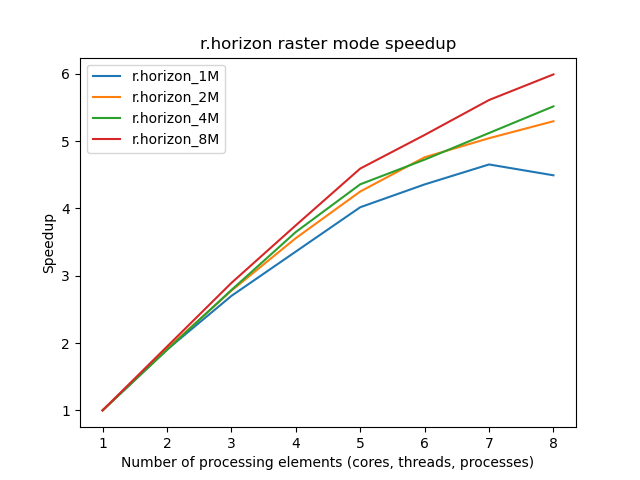
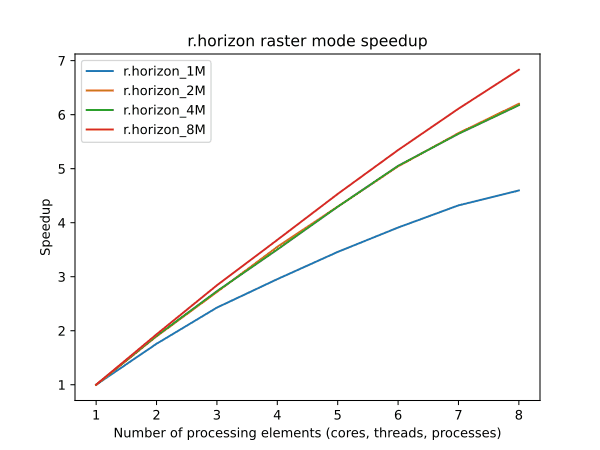
better images and small manual improvements

diff --git a/raster/r.horizon/r.horizon.html b/raster/r.horizon/r.horizon.html
@@ -121,7 +121,9 @@ be in meters. The buffer parameters must be in the same units as the
 raster coordinates (e.g., for latitude-longitude buffers are
 measured in degrees).
 
-<h2>METHOD</h2>
+<h2>NOTES</h2>
+
+<h3>Method</h3>
 
 The calculation method is based on the method used in <b>r.sun</b>
 to calculate shadows. It starts at a very shallow angle and walks
@@ -145,14 +147,11 @@ The output with the <b>-d</b> flag is azimuth degree (-90 to 90, where
 <p> All horizon values are positive (or zero). While negative values are
 in theory possible, <b>r.horizon</b> currently does not support them.
 
-<h2>NOTES</h2>
-The parallelization is only implemented for the raster mode.
-Although the point mode has been parallelized,
-the run time is much shorter than the raster mode.
 
 <h3>Performance</h3>
+Parallel processing is implemented for the raster mode.
 To enable parallel processing, the user can specify the number of threads
-to be used with the <b>nprocs</b> parameter (default 1).
+to be used with the <b>nprocs</b> parameter.
 Figures below show benchmark results running on
 Intel® Core™ i5-13600K CPU @ 3.5GHz.
 See benchmark scripts
@@ -162,29 +161,17 @@ in the source code for more details.
 The iterations of the algorithm used in <b>r.horizon</b>
 depends on the topography. As a result, the benchmark results may vary
 depending on the topography of the study area.
-The benchmark results below are examples based on
-the North Carolina sample dataset.
 
 <div align="center" style="margin: 10px">
   <img src="rhorizon_raster_time.png"
   alt="time for r.horizon with different map sizes" border="0">
-  <br>
-  <i>Figure 1: Benchmark shows execution time for different
-    number of cells (1M, 2M, 4M, and 8M) on the raster mode.
-</div>
-<div align="center" style="margin: 10px">
   <img src="rhorizon_raster_speedup.png"
   alt="speedup for r.horizon with different map sizes" border="0">
-  <br>
-  <i>Figure 2: Benchmark shows speedup for different
-    numbers of cells (1M, 2M, 4M, and 8M) on the raster mode.
-</div>
-<div align="center" style="margin: 10px">
   <img src="rhorizon_raster_efficiency.png"
   alt="efficiency for r.horizon with different map sizes" border="0">
   <br>
-  <i>Figure 3: Benchmark shows efficiency for different
-    numbers of cells (1M, 2M, 4M, and 8M) on the raster mode.
+  <i>Figure: Benchmark shows execution time, parallel speedup and
+    efficiency for different numbers of cells (1M, 2M, 4M, and 8M).</i>
 </div>
 
 
